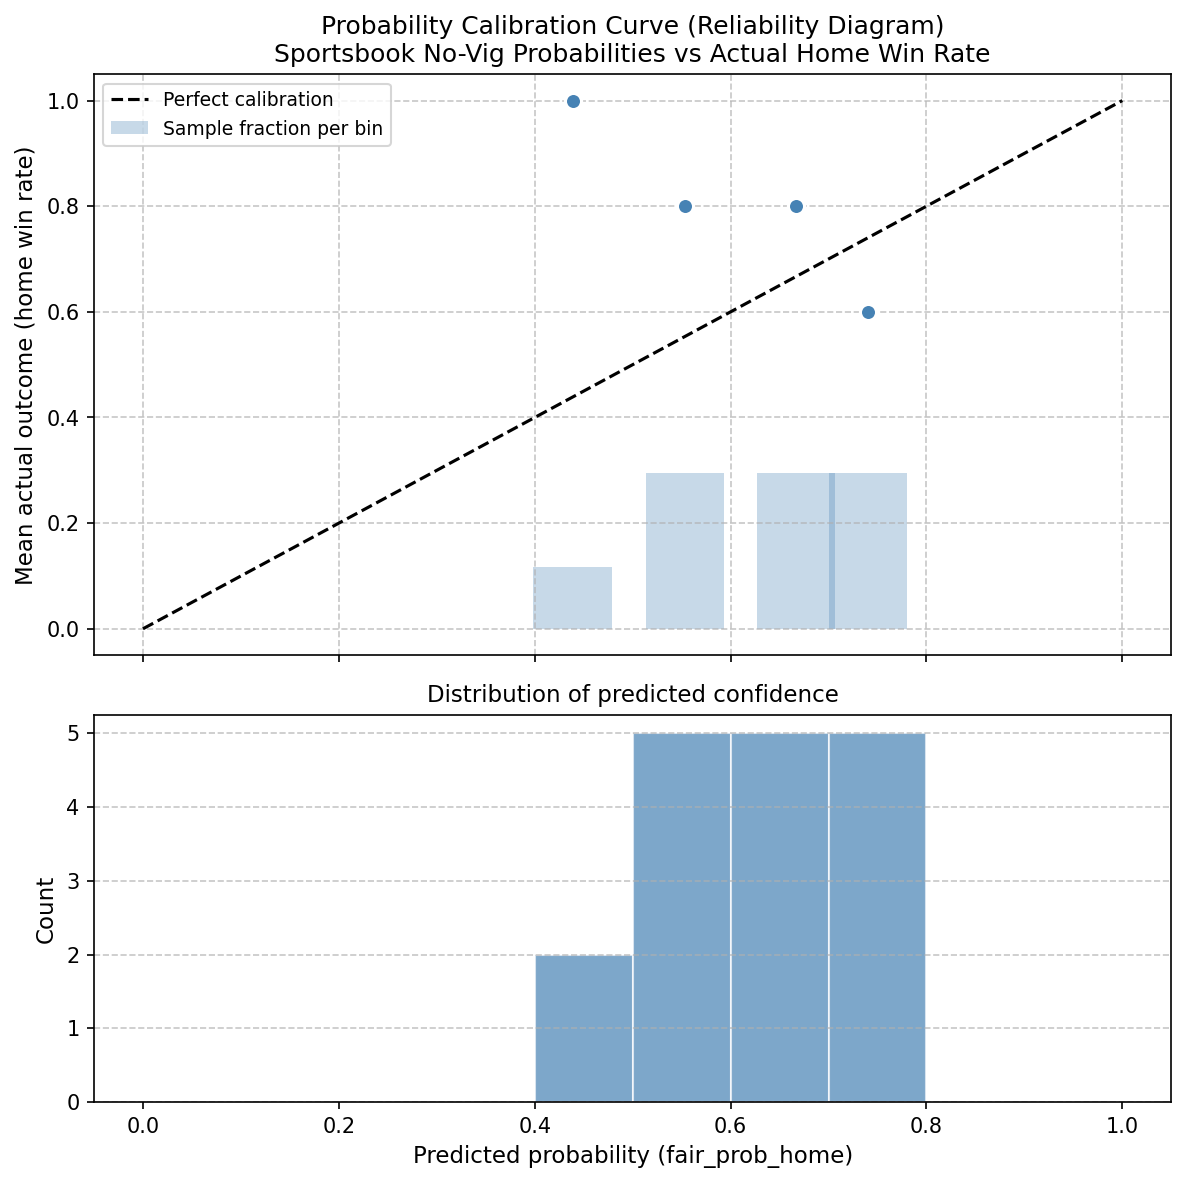
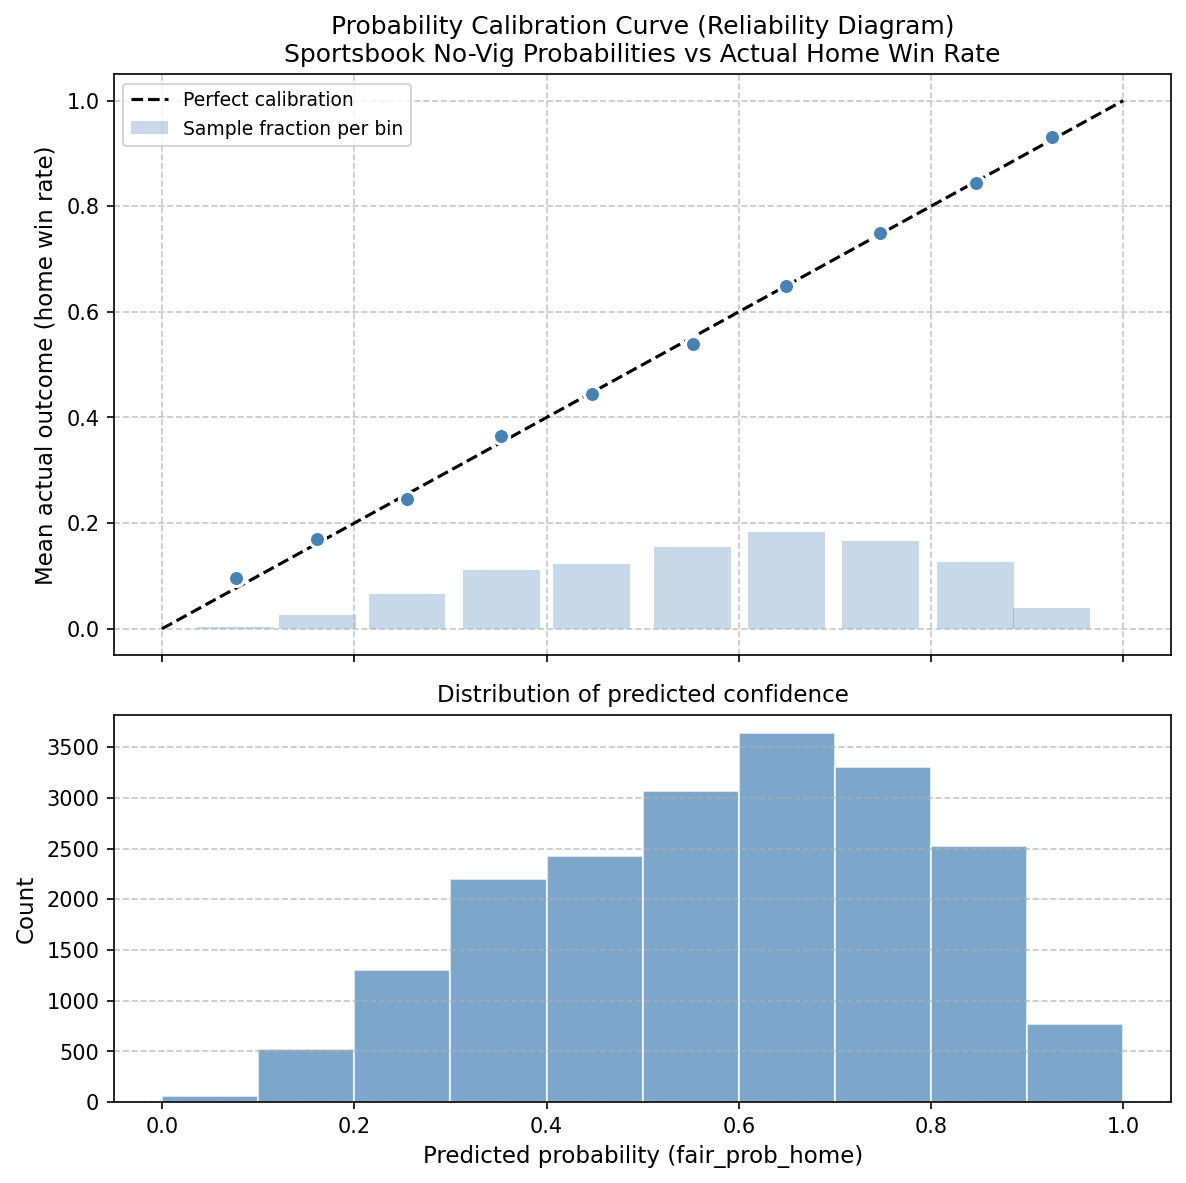
Path B: evaluation uses Kaggle raw (~19k games), add Kaggle to repo, update README

diff --git a/src/processing/evaluation.py b/src/processing/evaluation.py
@@ -2,28 +2,66 @@
 ECE 143: Sportsbook Calibration & Evaluation (Sportsbook-Only).
 
 This module evaluates the accuracy of traditional sportsbook predictions
-(T-minus 1 hour, no-vig probabilities) against actual NBA game outcomes.
+(no-vig probabilities from moneyline odds) against actual NBA game outcomes.
 It computes Brier Score, Log Loss, and a Probability Calibration Curve
 (Reliability Diagram) with a confidence distribution histogram.
 
-Data note: the pipeline produces `master_events.csv` with 512 temporally
-synchronized games, but because the upstream Kaggle file omits moneyline
-columns for most games in seasons 2023–2025, only 17 of those games have
-valid `fair_prob_home` / `fair_prob_away` (no-vig probabilities). The
-evaluation functions automatically drop rows without valid probabilities.
+Data sources:
+  - **Kaggle (recommended):** Loads `data/raw/nba_2008-2025.csv` directly.
+    ~19,820 games have moneyline odds (seasons 2008–2022 fully, 2023 partial).
+    Use this for statistically meaningful calibration analysis.
+  - **master_events.csv (legacy):** Output of main.py Polymarket merge.
+    512 games, but only 17 have moneylines (Kaggle drops them for 2023–2025).
+    Kept for methodology/story; not recommended for evaluation.
 """
 
-import pandas as pd
-import numpy as np
+from __future__ import annotations
+
 import logging
-import matplotlib.pyplot as plt
 from pathlib import Path
+from typing import Optional
+
+import matplotlib.pyplot as plt
+import numpy as np
+import pandas as pd
+
+from src.processing.quant_logic import apply_no_vig_probabilities
 
 logger = logging.getLogger(__name__)
 
-# Default path to the master dataset (output of main.py pipeline)
+# Default paths
+DEFAULT_KAGGLE_PATH = "data/raw/nba_2008-2025.csv"
 DEFAULT_MASTER_PATH = "data/processed/master_events.csv"
 DEFAULT_OUTPUT_PLOT = "data/processed/sportsbook_calibration.png"
+
+
+def load_kaggle_for_evaluation(filepath: str = DEFAULT_KAGGLE_PATH) -> pd.DataFrame:
+    """
+    Load Kaggle NBA sportsbook data and prepare for evaluation.
+
+    Filters to rows with valid moneyline odds, applies no-vig conversion,
+    and returns a dataframe with fair_prob_home, score_home, score_away.
+    Use this for the main evaluation (~19,820 games).
+    """
+    path = Path(filepath)
+    if not path.exists():
+        raise FileNotFoundError(f"Kaggle file not found: {filepath}")
+
+    df = pd.read_csv(path)
+    df = df.rename(columns={
+        "home": "home_team",
+        "away": "away_team",
+        "moneyline_home": "home_odds",
+        "moneyline_away": "away_odds",
+    })
+
+    mask = df["home_odds"].notna() & df["away_odds"].notna()
+    df = df[mask].copy()
+    if df.empty:
+        raise ValueError("No rows with valid moneyline odds in Kaggle file.")
+
+    df = apply_no_vig_probabilities(df)
+    return df
 
 
 def load_master_events(filepath: str = DEFAULT_MASTER_PATH) -> pd.DataFrame:
@@ -116,27 +154,39 @@ def reliability_diagram_data(
     )
 
 
-def evaluate_sportsbook(filepath: str = DEFAULT_MASTER_PATH) -> pd.DataFrame:
+def evaluate_sportsbook(
+    source: str = "kaggle",
+    filepath: Optional[str] = None,
+) -> pd.DataFrame:
     """
     Full sportsbook-only evaluation pipeline.
 
-    1. Load master_events.csv.
+    1. Load data (Kaggle raw or master_events.csv).
     2. Compute ground truth (home_won).
     3. Compute Brier Score and Log Loss for fair_prob_home.
     4. Build calibration curve data (no plotting here).
 
+    Args:
+        source: "kaggle" (default) for ~19,820 games from Kaggle raw;
+                "master_events" for 17 games from Polymarket merge output.
+        filepath: Override path; if None, uses default for the chosen source.
+
     Returns the dataframe with added columns: home_won, brier_sportsbook, logloss_sportsbook.
     """
-    df = load_master_events(filepath)
+    if source == "kaggle":
+        path = filepath or DEFAULT_KAGGLE_PATH
+        df = load_kaggle_for_evaluation(path)
+        df.attrs["_eval_source"] = "kaggle"
+    else:
+        path = filepath or DEFAULT_MASTER_PATH
+        df = load_master_events(path)
+        df = df.dropna(subset=["fair_prob_home"]).copy()
+        df.attrs["_eval_source"] = "master_events"
 
-    # Ensure we have the required columns
-    if "fair_prob_home" not in df.columns:
-        raise ValueError("Column 'fair_prob_home' not found. Run main.py and apply no-vig logic first.")
-
-    # Drop rows with missing probabilities so metrics are well-defined
-    df = df.dropna(subset=["fair_prob_home"]).copy()
     if df.empty:
-        raise ValueError("No rows with valid fair_prob_home after dropping NaN.")
+        raise ValueError("No rows with valid fair_prob_home after loading.")
+    if "fair_prob_home" not in df.columns:
+        raise ValueError("Column 'fair_prob_home' not found. Ensure no-vig logic was applied.")
 
     # Ground truth: 1 if home won, 0 if away won
     df["home_won"] = compute_ground_truth(df)
@@ -228,13 +278,17 @@ def print_summary(df: pd.DataFrame) -> None:
     n = len(df)
     brier = df["brier_sportsbook"].mean()
     logloss = df["logloss_sportsbook"].mean()
+    source = df.attrs.get("_eval_source", "unknown")
+    dataset_name = (
+        "Kaggle raw (nba_2008-2025.csv)" if source == "kaggle" else "master_events.csv"
+    )
 
     print()
     print("=" * 70)
-    print("  ECE 143 — Sportsbook Calibration & Evaluation (Option A)")
+    print("  ECE 143 — Sportsbook Calibration & Evaluation (Sportsbook-Only)")
     print("=" * 70)
     print()
-    print("  Dataset: master_events.csv (T-minus 1 hour, no-vig probabilities)")
+    print("  Dataset: {} (no-vig probabilities from moneyline odds)".format(dataset_name))
     print("  Sample size: {} NBA games".format(n))
     print()
     print("  --- Metrics (lower is better) ---")
@@ -247,7 +301,8 @@ def print_summary(df: pd.DataFrame) -> None:
 
 
 def run_evaluation(
-    filepath: str = DEFAULT_MASTER_PATH,
+    source: str = "kaggle",
+    filepath: Optional[str] = None,
     output_plot: str = DEFAULT_OUTPUT_PLOT,
     n_bins: int = 10,
 ) -> pd.DataFrame:
@@ -255,9 +310,15 @@ def run_evaluation(
     Run the full sportsbook-only evaluation: load data, compute metrics,
     plot calibration curve, and print summary.
 
+    Args:
+        source: "kaggle" (default) or "master_events".
+        filepath: Override data path; uses default for source if None.
+        output_plot: Path for calibration plot.
+        n_bins: Number of bins for reliability diagram.
+
     Returns the evaluation dataframe (with home_won, brier_sportsbook, logloss_sportsbook).
     """
-    df = evaluate_sportsbook(filepath)
+    df = evaluate_sportsbook(source=source, filepath=filepath)
     plot_calibration_curve(df, n_bins=n_bins, output_path=output_plot)
     print_summary(df)
     return df
@@ -268,4 +329,4 @@ if __name__ == "__main__":
         level=logging.INFO,
         format="%(asctime)s - %(levelname)s - %(message)s",
     )
-    run_evaluation()
+    run_evaluation(source="kaggle")

diff --git a/main.py b/main.py
@@ -133,10 +133,13 @@ def main():
     logger.info("Applying No-Vig Fair Probability calculations...")
     master_df = apply_no_vig_probabilities(master_df)
     
-    # Save final output
+    # Save final output (for methodology/story; evaluation uses Kaggle raw by default)
     output_path = 'data/processed/master_events.csv'
     master_df.to_csv(output_path, index=False)
-    logger.info(f"Pipeline complete. Master dataset saved to {output_path} with {len(master_df)} synchronized events.")
+    logger.info(
+        f"Pipeline complete. Master dataset saved to {output_path} with {len(master_df)} synchronized events. "
+        "For sportsbook calibration, run: python -m src.processing.evaluation (uses Kaggle raw, ~19k games)."
+    )
 
 if __name__ == "__main__":
     main()

diff --git a/README.md b/README.md
@@ -18,9 +18,9 @@ We built a full pipeline that:
 
 1. Loads and preprocesses **Kaggle NBA sportsbook odds** (2008–2025), computes **no-vig** implied probabilities, and defines a **T-minus 1 hour** snapshot.
 2. Fetches **Polymarket** event data via the Gamma API and uses **fuzzy matching** (`rapidfuzz` + a 30-team alias dictionary) to align messy event strings with Kaggle’s format.
-3. Uses **temporal synchronization** (`pd.merge_asof`) to align sportsbook and Polymarket data in time, yielding **512 matched historical NBA games**.
+3. Uses **temporal synchronization** (`pd.merge_asof`) to align sportsbook and Polymarket data in time, yielding **512 matched historical NBA games** in `master_events.csv`.
 
-During extraction we discovered that **Polymarket’s API does not expose historical minute-by-minute order book data for closed markets** (data is purged), and that Polymarket does not list **individual NBA game** markets—only season-long futures. We therefore **pivoted to Option A: Sportsbook-Only Evaluation**. The pipeline now focuses on evaluating sportsbook accuracy (Brier Score, Log Loss, and a **Probability Calibration Curve**) on the 512 temporally synchronized games, while documenting the API constraints as a central engineering finding.
+During extraction we discovered that **Polymarket’s API does not expose historical minute-by-minute order book data for closed markets** (data is purged), and that Polymarket does not list **individual NBA game** markets—only season-long futures. We therefore **pivoted to Option A: Sportsbook-Only Evaluation**. The pipeline now evaluates sportsbook accuracy (Brier Score, Log Loss, and a **Probability Calibration Curve**) on **~19,820 games** from the Kaggle dataset directly (games with moneyline odds). The `master_events.csv` merge output remains for methodology/story; the evaluation module uses Kaggle raw by default for statistically meaningful results. The Polymarket API constraints are documented as a central engineering finding.
 
 ---
 
@@ -43,9 +43,10 @@ During extraction we discovered that **Polymarket’s API does not expose histor
 
 5. **No-vig (quant) logic** - Convert American moneyline odds to implied probabilities; normalize by overround to get **fair_prob_home** and **fair_prob_away** (no-vig probabilities).
 
-6. **Evaluation (Option A)** - **Sportsbook-only:** Use `fair_prob_home` and actual outcome (home win = 1, away win = 0).  
+6. **Evaluation (Option A)** - **Sportsbook-only:** Load Kaggle raw (`data/raw/nba_2008-2025.csv`), filter to rows with moneyline odds (~19,820 games), apply no-vig, then use `fair_prob_home` and actual outcome (home win = 1, away win = 0).  
    - Compute **Brier Score** and **Log Loss**, and plot a **Probability Calibration Curve** (reliability diagram) plus a histogram of predicted confidence.  
-   - Output: `data/processed/sportsbook_calibration.png` and a short terminal summary.
+   - Output: `data/processed/sportsbook_calibration.png` and a short terminal summary.  
+   - *Legacy:* `master_events.csv` (512 games, 17 with moneylines) can be used via `run_evaluation(source="master_events")` for methodology comparison.
 
 ### Why We Pivoted: Polymarket API Limitation
 
@@ -71,13 +72,25 @@ Here is the division of labor for the remainder of the project:
 ### Phase 2: Data Processing & Validation (Tasks for Priyansh & Karthik)
 The base `quant_logic.py` and temporal merge are in the repo. Your goal is to take over the data validation and EDA:
 1. **Audit the No-Vig Math:** Review `src/processing/quant_logic.py` to ensure the implied probability conversions are mathematically sound.
-2. **Exploratory Data Analysis (EDA):** Dig into the Kaggle data and `master_events.csv`. Calculate the average sportsbook vig, check for any missing odds edge cases, and evaluate how much data is dropped at the T-minus 1 hour snapshot. **Note:** because the Kaggle file drops moneyline columns for most games in seasons 2023–2025, only **17** of the 512 temporally synchronized games in `master_events.csv` have complete moneyline + half-time odds; the rest still have spreads/totals but no moneylines. This is a limitation of the upstream Kaggle data rather than a bug in our merge.
+2. **Exploratory Data Analysis (EDA):** Dig into the Kaggle data (`data/raw/nba_2008-2025.csv`) and `master_events.csv`. Calculate the average sportsbook vig, check for any missing odds edge cases, and evaluate how much data is dropped. **Data note:** Kaggle has moneyline odds for ~19,820 games (2008–2022 fully, 2023 partial); seasons 2024–2025 have no moneylines. The evaluation module uses Kaggle directly for the main analysis; `master_events.csv` (512 games from the Polymarket merge) has only 17 with moneylines and is kept for methodology/story.
 
 ### Phase 3: Visualization, Scoring & Reporting (Tasks for Zitian & Yu-Jung)
-A baseline `evaluation.py` script has been built that generates an initial Brier Score and Probability Calibration Curve `.png` as a starting point. Your turn to take over the Data Science and Storytelling:
+A baseline `evaluation.py` script has been built that generates an initial Brier Score and Probability Calibration Curve `.png` as a starting point. **By default it uses Kaggle raw (~19,820 games)** for statistically meaningful results. Your turn to take over the Data Science and Storytelling:
 1. **Expand the Data Science:** Modify `evaluation.py` to break down the calibration curves further (e.g., Playoffs vs. Regular season, or Heavy Favorites vs. Underdogs). Add confidence intervals to the Brier scores.
 2. **Draft the Academic Report:** Write the final report explaining our methodology, Brier Score/Log Loss results, and calibration findings. 
 3. **Create Presentation Slides:** Pull the visual insights into the final presentation. **Crucial:** Ensure we include a dedicated slide on the Polymarket API data-purging limitation as a core engineering finding.
+
+---
+
+## Data Flow (Two Paths)
+
+| Path | Purpose | Output |
+|------|---------|--------|
+| **main.py** | Polymarket extraction + fuzzy match + merge | `master_events.csv` (512 games) — for methodology/story |
+| **evaluation.py** | Sportsbook calibration | Loads **Kaggle raw** (~19,820 games with moneylines) by default |
+
+- **Evaluation** does *not* require running `main.py` first. It reads `data/raw/nba_2008-2025.csv` directly.
+- To use the legacy `master_events.csv` (17 games with moneylines): `run_evaluation(source="master_events")`.
 
 ---
 
@@ -96,7 +109,7 @@ nba_probability_forecasting/
 │   │   └── fuzzy_match.py           # rapidfuzz + alias table, audit_matches
 │   ├── processing/
 │   │   ├── quant_logic.py           # No-vig: American odds → fair probabilities
-│   │   └── evaluation.py            # Sportsbook-only: Brier, Log Loss, calibration curve
+│   │   └── evaluation.py            # Sportsbook-only: loads Kaggle, Brier, Log Loss, calibration
 │   └── archive_polymarket_research/  # Archived Polymarket scripts (see README there)
 ├── scripts/
 │   └── diagnose_merge.py            # Pre-merge diagnostics for merge_asof
@@ -107,7 +120,7 @@ nba_probability_forecasting/
 
 ## Prerequisites
 
-- Place the Kaggle NBA sportsbook CSV (e.g. `nba_2008-2025.csv`) in `data/raw/`.
+- The Kaggle NBA sportsbook CSV (`nba_2008-2025.csv`) is included in `data/raw/` in this repo. If cloning fresh, ensure it is present (or download from Kaggle and place it there).
 - Run `pip install -r requirements.txt` to install dependencies (pandas, numpy, matplotlib, requests, rapidfuzz, pytz).
 
 ## How to Run
@@ -118,14 +131,15 @@ nba_probability_forecasting/
    ```  
    Produces `data/processed/master_events.csv`.
 
-2. **Sportsbook-only evaluation (Brier, Log Loss, calibration plot)**  
+2. **Sportsbook-only evaluation (Brier, Log Loss, calibration plot)** — uses Kaggle raw (~19,820 games) by default  
    ```bash
    python -m src.processing.evaluation
    ```  
    Or from Python:
    ```python
    from src.processing.evaluation import run_evaluation
-   df = run_evaluation()
+   df = run_evaluation()                    # Kaggle (default)
+   df = run_evaluation(source="master_events")  # Legacy: 17 games from merge
    ```  
    Produces `data/processed/sportsbook_calibration.png` and prints metrics.
 
